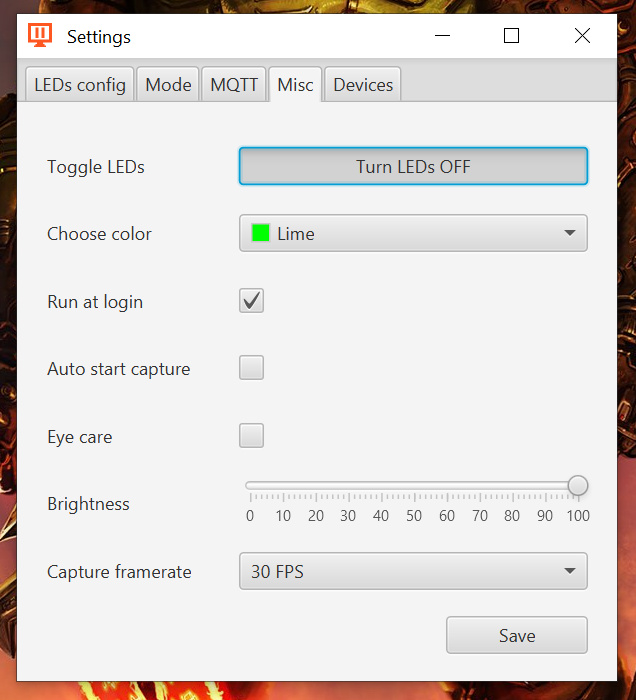
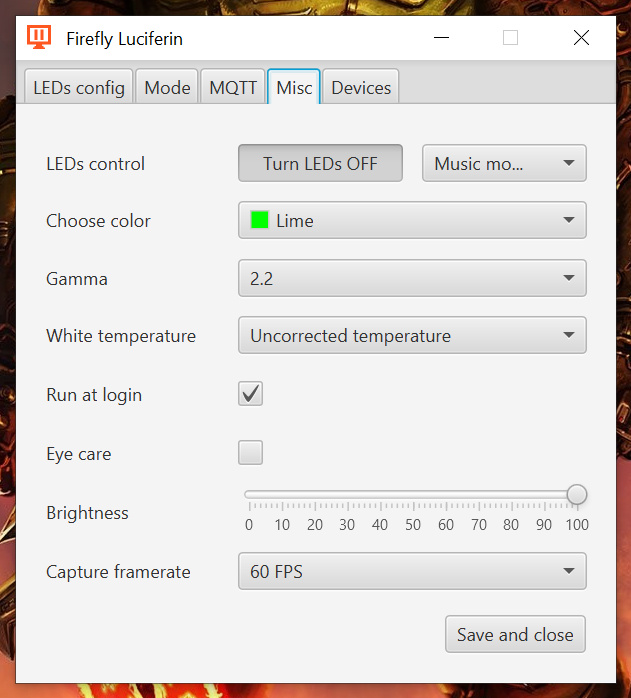
Native and software audio loopback

diff --git a/src/main/java/org/dpsoftware/config/Constants.java b/src/main/java/org/dpsoftware/config/Constants.java
@@ -394,7 +394,7 @@ public class Constants {
     public static final String TOOLTIP_NUMBEROFTHREADS = "1 thread is enough when using DDUPL, 3 or more threads are recommended for other capture methods";
     public static final String TOOLTIP_SERIALPORT = "Output device to use for this display";
     public static final String TOOLTIP_ASPECTRATIO = "Select letterbox if your video content presents horizontal black bars or pillarbox if you see vertical black bars.";
-	public static final String TOOLTIP_FRAMERATE = "30 FPS IS THE RECOMMENDED FRAMERATE, use at your own risk.";
+	public static final String TOOLTIP_FRAMERATE = "30 FPS IS THE RECOMMENDED FRAMERATE.";
 	public static final String TOOLTIP_MQTTHOST = "OPTIONAL: MQTT protocol://host";
 	public static final String TOOLTIP_MULTIMONITOR = "One microcontroller per monitor is required";
 	public static final String TOOLTIP_MONITORNUMBER = "Display number for this instance";
